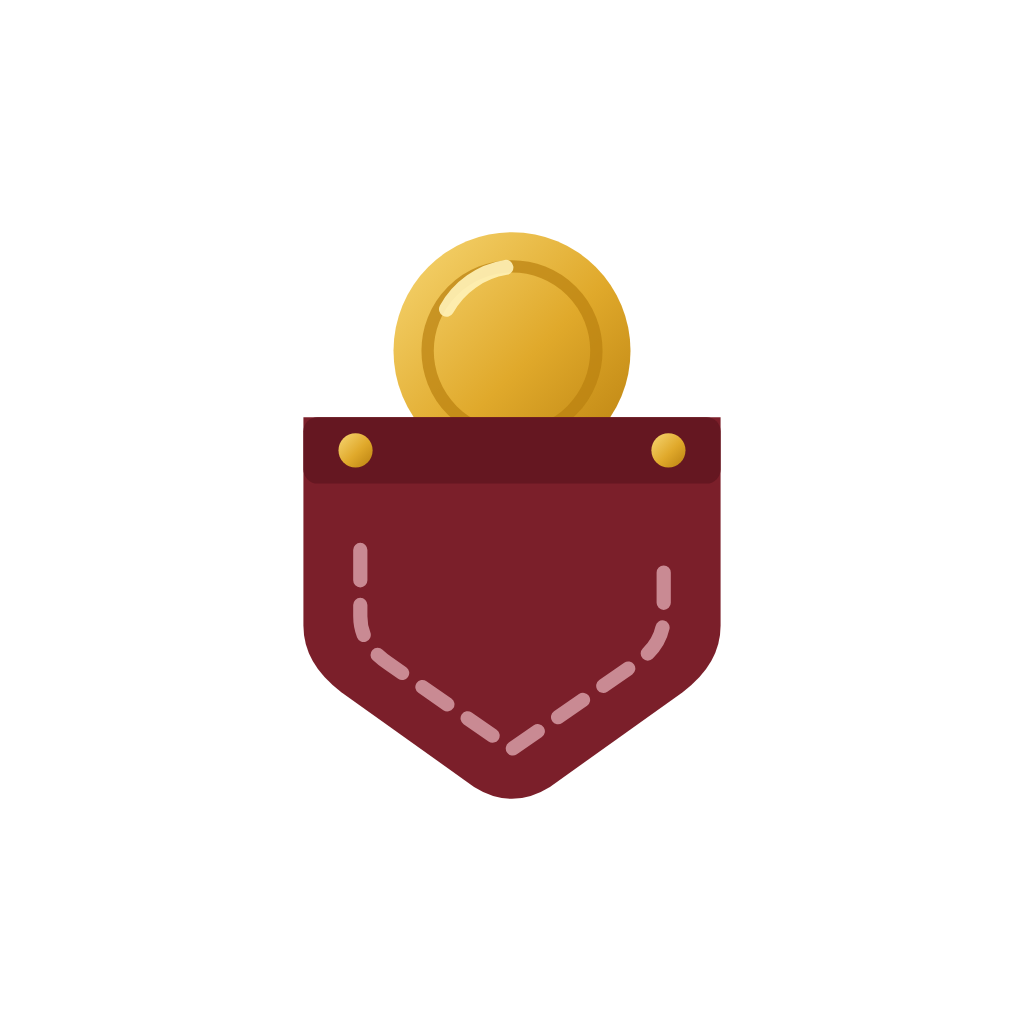
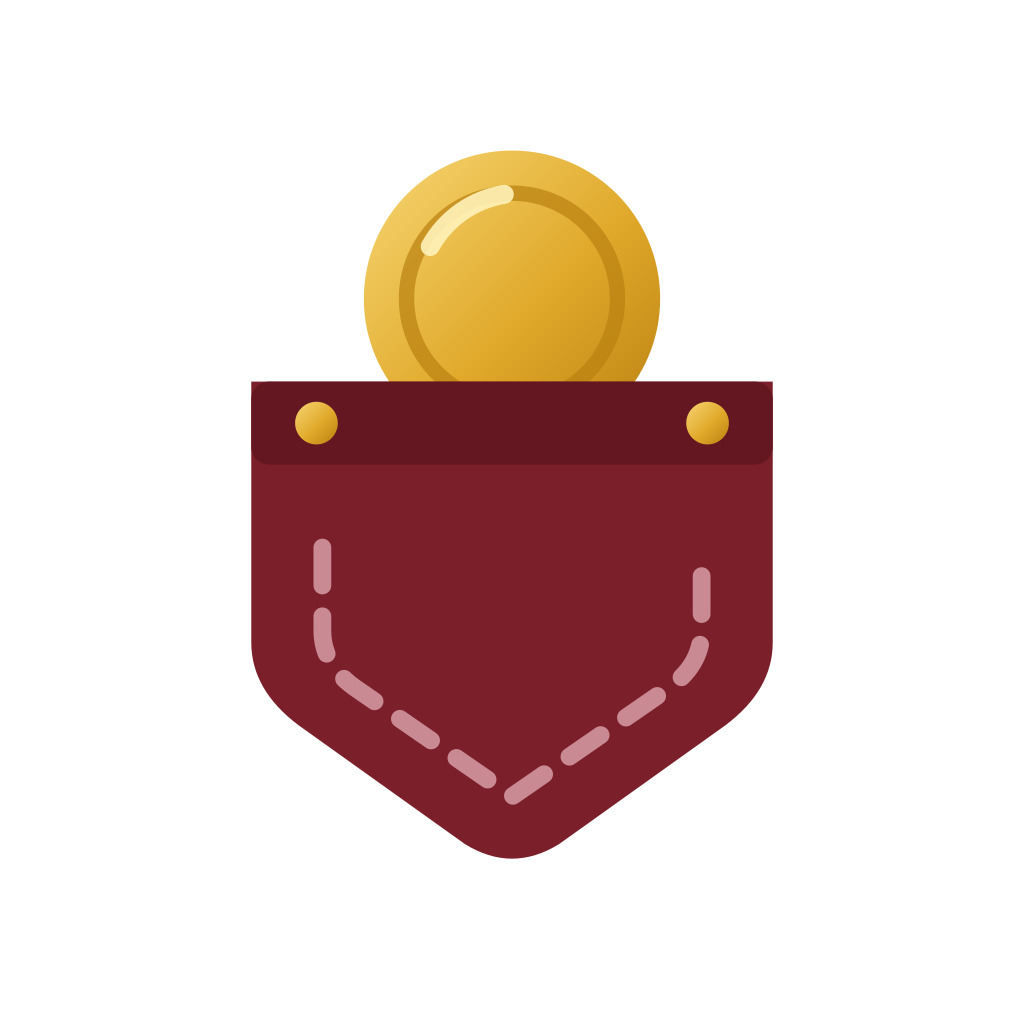
APK: sem espaço duplicado em cima e embaixo; ícone do launcher maior
Claude-Session: https://claude.ai/code/session_01Db5d26xEXqMURnwvSHvzbA

Changed region(s): [[0.2188, 0.125, 0.7812, 0.8438]]

diff --git a/index.html b/index.html
@@ -3,6 +3,7 @@
 <head>
 <meta charset="utf-8">
 <meta name="viewport" content="width=device-width, initial-scale=1, viewport-fit=cover">
+<script>try{if(window.Capacitor&&Capacitor.isNativePlatform&&Capacitor.isNativePlatform())document.documentElement.classList.add("native")}catch(e){}</script>
 <title>Meu Bolso – Finanças</title>
 <link rel="preconnect" href="https://fonts.googleapis.com">
 <link href="https://fonts.googleapis.com/css2?family=Bricolage+Grotesque:wght@400;600;800&display=swap" rel="stylesheet">
@@ -28,7 +29,7 @@ header{background:linear-gradient(var(--navy),var(--navy)) top/100% calc(100% - 
 .saldo{color:#fff}
 .badge{display:inline-block;margin-top:0;padding:2px 10px;border-radius:99px;font-size:calc(12px*var(--fs));font-weight:600;background:rgba(255,255,255,.18);color:#fff}
 .badge.pos{background:rgba(255,255,255,.18)}
-header>svg{display:block;width:calc(100% + 40px);margin:0 -20px 0;height:34px}
+html.native{padding-top:0;padding-bottom:0}html.native header{padding-top:10px}html.native nav{padding-bottom:8px}html.native .sheet{padding-bottom:18px}header>svg{display:block;width:calc(100% + 40px);margin:0 -20px 0;height:34px}
 main{flex:1;overflow-y:auto;padding:48px 16px 90px;margin-top:-34px}
 .row2{display:grid;grid-template-columns:1fr 1fr;gap:10px}
 .box{background:var(--card);border:1px solid var(--line);border-radius:16px;padding:14px}
